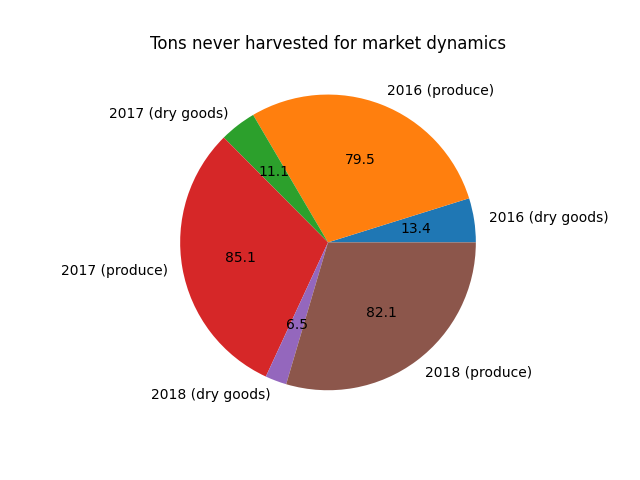
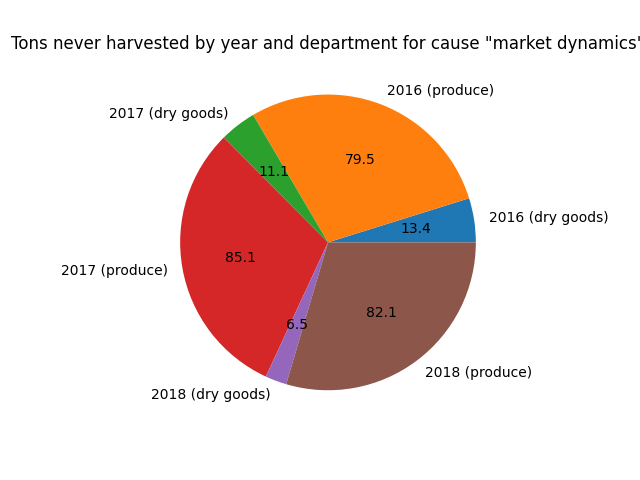
'Self code review' changes

Changed region(s): [[0.0, 0.0625, 1.0, 0.125]]

diff --git a/main.py b/main.py
@@ -9,11 +9,13 @@ from plotting.plot import *
 
 # Constants / shared variables
 
-part_1_csv = 'raw_data/farm_part_1.csv'
-part_3_csv = 'raw_data/farm_update_part_3.csv'
-not_harvested_csv = 'raw_data/farm_not_harvested_causes.csv'
+part_1_csv_filename = 'raw_data/farm_part_1.csv'
+part_3_csv_filename = 'raw_data/farm_update_part_3.csv'
+not_harvested_csv_filename = 'raw_data/farm_not_harvested_causes.csv'
 
-df_harvest = pd.read_csv(not_harvested_csv)
+part_1_prod_filename = 'prod_data/farm_part_1_production.csv'
+
+df_harvest = pd.read_csv(not_harvested_csv_filename)
 
 def main():
 	assignment_part_1()
@@ -21,30 +23,30 @@ def main():
 	assignment_part_3()
 
 def assignment_part_1():
-	df_1 = pd.read_csv(part_1_csv)
+	df_1 = pd.read_csv(part_1_csv_filename)
 
 	df_1 = clean_data(df_1)
 	df_1.to_csv('clean_data/farm_part_1_clean.csv')
 	df_1 = calculate_tons_never_harvested(df_1)
 	df_1 = calculate_tons_never_harvested_by_cause(df_1, df_harvest)
-	df_1.to_csv('prod_data/farm_part_1_production.csv')
+	df_1.to_csv(part_1_prod_filename)
 
 def assignment_part_2():
-	df_2 = pd.read_csv('prod_data/farm_part_1_production.csv') # TODO: Variable?
+	df_2 = pd.read_csv(part_1_prod_filename) # Note: Choosing to not use a shared data frame to emulate an importing of productin data
 
 	plot_not_harvested_by_year(df_2, 'not_harvested_by_year')
 	plot_not_harvested_by_year_and_dept(df_2, 'not_harvested_by_year_and_dept')
 	plot_not_harvested_by_cause(df_2, df_harvest, 'not_harvested_by_cause')
 
 def assignment_part_3():
-	df_3 = pd.read_csv(part_3_csv)
+	df_3 = pd.read_csv(part_3_csv_filename)
 
 	df_3 = clean_data(df_3)
 	df_3.to_csv('clean_data/farm_part_3_clean.csv')
 	df_3 = calculate_tons_never_harvested(df_3)
 	df_3 = calculate_tons_never_harvested_by_cause(df_3, df_harvest)
 	
-	df_2 = pd.read_csv('prod_data/farm_part_1_production.csv', index_col='index') # TODO: don't re-import?
+	df_2 = pd.read_csv(part_1_prod_filename, index_col='index') # Note: Choosing to not use a shared data frame to emulate an importing of productin data
 	df_final = df_2.append(df_3)
 	df_final = df_final.drop_duplicates(keep='first')
 	df_final.to_csv('prod_data/v2_farm_production.csv')

diff --git a/plotting/plot.py b/plotting/plot.py
@@ -1,11 +1,11 @@
 import matplotlib.pyplot as plt
 
 def autopct_format(values):
-    def my_format(pct):
+    def actual_value(pct):
         total = sum(values)
         val = round(pct*total/100.0, 1)
         return str(val)
-    return my_format
+    return actual_value
 
 def plot_not_harvested_by_year(df, plot_name):
 	plt.clf()
@@ -20,11 +20,10 @@ def plot_not_harvested_by_year_and_dept(df, plot_name):
 	plt.clf()
 	data_by_year_and_dept = df.groupby(['year', 'refed_food_department'])
 	plot_data = data_by_year_and_dept.sum().tons_never_harvested
-	labels = data_by_year_and_dept.indices.keys()
-	labels = [f'{str(tuple[0])} ({tuple[1]})' for tuple in labels]
+	labels = [f'{str(year_and_dept[0])} ({year_and_dept[1]})' for year_and_dept in data_by_year_and_dept.indices.keys()]
 
 	plt.pie(plot_data, labels=labels, autopct=autopct_format(plot_data))
-	plt.title('Tons never harvested by year and refed department')
+	plt.title('Tons never harvested by year and department')
 	plt.savefig(f'figures/{plot_name}.png')
 
 def plot_not_harvested_by_cause(df, df_harvest, plot_name):
@@ -33,11 +32,10 @@ def plot_not_harvested_by_cause(df, df_harvest, plot_name):
 	for index, row in df_harvest.iterrows():
 		plt.clf()
 
-		labels = data_by_year_and_dept.indices.keys()
-		labels = [f'{str(tuple[0])} ({tuple[1]})' for tuple in labels]
 		plot_data = data_by_year_and_dept.sum()[f'tons_never_harvested_{row.cause}']
+		labels = [f'{str(year_and_dept[0])} ({year_and_dept[1]})' for year_and_dept in data_by_year_and_dept.indices.keys()]
 
 		plt.pie(plot_data, labels=labels, autopct=autopct_format(plot_data))
 		display_name = row.cause.replace('_', ' ')
-		plt.title(f'Tons never harvested for {display_name}')
+		plt.title(f'Tons never harvested by year and department for cause "{display_name}"')
 		plt.savefig(f'figures/{plot_name}_{row.cause}.png')

diff --git a/README.md b/README.md
@@ -2,21 +2,21 @@
 
 ***A quick note on git***
 
-Upon reading the assignment, I saw the phrase "Your final submission should be a zipped file directory" and assumed the output should specifically not be a git repository. This was purely a reading error on my part and I deeply regret the missed chance to show you the way I work. I'm happy to talk through my process and prefer using git on all projects I work on.
+Upon reading the assignment, I saw the phrase "Your final submission should be a zipped file directory" and assumed the output should specifically not be a git repository. This was purely a reading error on my part and I regret the missed chance to show you the way I work. I'm happy to talk through my process and prefer using git on all projects I work on.
 
-For some insight into how I usually use git, feel free to browse a personal project of mine, [emojiphone](https://github.com/bromeostasis/emojiphone).
+For some insight into how I usually use git, feel free to browse the commit history, project organization, and PRs on a personal project of mine, [emojiphone](https://github.com/bromeostasis/emojiphone).
 
 ## Start here: Project overview and how to run
 
 ### Solution approach
 
-The solution to this problem largely leverages the `pandas` library to handle the sanitzation, manipulation, and calculation of the given food waste data. We can use the powerful `pandas` library to load the csv data into `DataFrame`s. We can then do some sanitization (lowercasing all strings) and sanity checks (ensuring no docuplicates) before saving a copy of the data to the `clean_data/` directory.
+The solution to this problem primarily leverages the `pandas` library to handle the sanitzation, manipulation, and calculation of the given food waste data. We can use the powerful `pandas` library to load the csv data into `DataFrame`s. We can then do some sanitization (lowercasing all strings) and sanity checks (ensuring no docuplicates) before saving a copy of the data to the `clean_data/` directory.
 
-Once the data is cleaned, we use `pandas` `DataFrame`s to do row-level calculations. We're able to do the math required to calculate `tons_never_harvested` just by using the builtin dictionary-style column creation.
+Once the data is cleaned, we use `pandas` `DataFrame`s to do row-level calculations. We're able to do the math required to calculate `tons_never_harvested` just by using the builtin dictionary-style column syntax.
 
-To aggregate the data for plotting, we rely on the `pandas` `groupby` function, which allows us to roll up the data based on `year` and `refed_food_category`. We can then feed this grouped data into `matplotlib` to show a simple visualization of how many tons of food are wasted each year and by each category!
+To aggregate the data for plotting, we rely on the `pandas` `groupby` function, which allows us to roll up the data based on `year` and `refed_food_category`. We can then `sum` this grouped data and feed it into `matplotlib` to show a simple visualization of how many tons of food are wasted each year and by each category!
 
-Finally, we read in the updated data and repeat the previous steps! We remove duplicates from the combined dataset (see future enhancements section for more details) and use the generalized methods from the first two steps to create new datasets and figures with updated 2018 and 2019 data!
+Finally, we read in the updated data and repeat the previous steps! We remove duplicates from the combined dataset (see future enhancements section for more details) and use the generalized methods from the first two steps to create new datasets and figures with updated 2018 and 2019 data.
 
 ### What's included
 
@@ -31,7 +31,7 @@ All of the rest of the directories present are for input or output. They are as 
 
 Any file with the `v2_` prefix includes the updated 2018 & 2019 data from `farm_update_part_3.csv`.
 
-Finally, I did keep the Jupyter notebook files in the directory/solution. They are fairly messy and disorganized as it's mainly notes and experiments, but feel free to take a look if you'd like!
+Finally, I did keep the Jupyter notebook I used in the directory. It's fairly messy and disorganized as it's mainly notes and experiments, but feel free to take a look if you'd like!
 
 ### How to run
 
@@ -42,7 +42,9 @@ Generating the data and figures is as simple as running the base command:
 ```python
 python3 main.py
 ```
-Also included is a convenience script, `reset.py`, to clear out all generated data and figures. If you'd like to fully see the script in action, you may do the following:
+As mentioned in the assignment, I included the final data and figures in the directory.
+
+If you'd like to clear out all of the generated output, I've included is a convenience script: `reset.py`. This will clear out everything except the raw data and can be run like this:
 ```python
 python3 reset.py
 # Verify here that all output directories are empty
@@ -51,39 +53,43 @@ python3 main.py
 
 ## Looking forward: Part 4 and Future Enhancements
 ### Part 4: Scaling the analytics pipeline
-Currently, the solution exists as a local directory on a computer. In order to make this a scalable solution that works for a broader team and bigger datasets, several things would need to change. I'll outline them here (in priority order?):
+Currently, the solution exists as a local directory on a computer. In order to make this a scalable solution that works for a broader team, bigger datasets, and actual users, several things would need to change. I'll outline them here in priority order:
 
 **Storage**
 
-While `python` and `pandas` are very powerful, we don't want to rely on them, especially as our datasets grow in size. For one thing, we waste a lot of time and resources loading the data locally up every time to do analysis. Additionally, querying data in sql (I prefer [PostgreSQL](https://www.postgresql.org/)) is going to be much more performant than in python. For these reason, we should store all of the "production data" in a database instead of outputting into more `csv` files. That way, the data is always available to do more calculations on or run visualizations.
+While `python` and `pandas` are very powerful, we don't want to rely on them, especially as our datasets grow in size. For one thing, we waste a lot of time and resources loading the data locally up every time to do analysis. Additionally, querying data in sql (I prefer [PostgreSQL](https://www.postgresql.org/)) is going to be much more performant than in python. For these reasons, we should start out by storing all of the "production data" in a database instead of outputting into more `csv` files. From there, we can query the data much faster in order to do more calculations on or run visualizations.
 
-We would also want to store the `tons_never_harvested_by_cause` data in a dedicated table so we can easily update these values and have changes propogate throughout our system.
+We would also want to store the `tons_never_harvested_by_cause` data in a dedicated table so we can easily update these values and have changes propogate throughout our system without having to update our code.
 
 **Hosting**
 
-First and foremost, these calculations would need to more broadly be accessible to other engineers, more robust analytics solutions, and end-users. We would likely want to create a frontend interface where anyone (or anyone with appropriate permissions) could upload their data. To start with, this could be a simple file upload interface, though it could certainly expanded to show a lot of validation or be integrated with the current insights to help ensure that whoever might be submitting the data knows what they're doing and that they're submitting it to the right place.
+We also need these analyses to be more broadly accessible to other engineers, more robust analytics solutions, and end-users. In order to do that, we need to host several parts of the solution in a publicly accessible location.
+
+We would likely want to create a frontend interface where anyone (or anyone with appropriate permissions) could upload their data. To start with, this could be a simple file upload interface, though it could certainly expanded to show a lot of validation or be integrated with the current insights to help ensure that whoever might be submitting the data knows what they're doing and that they're submitting it to the right place.
 
 We would also want to host the visualizations on a frontend server. Visualizations aren't a specialty of mine, so I'm not sure which technology would be best to use here, but we would certainly want the outside world to be able to view all of our work in a dynamic fashion, not just send them a folder of `.png`s!
 
-Finally, we would need to host the backend calculations somewhere to ensure availability and scalability. A [Flask](https://flask.palletsprojects.com/en/2.2.x/) server would do well to get things up and running, though as datasets become larger and calculations become more intensive, we may want to consider expanding into a task-based system such as [Celery](https://docs.celeryq.dev/en/stable/getting-started/introduction.html) for some of our analysis and calculation, to ensure the frontend visualizations aren't impacted.
+Finally, we would need to host the backend calculations somewhere to ensure availability and scalability. A [Flask](https://flask.palletsprojects.com/en/2.2.x/) server would do well to get things up and running, though as datasets become larger (and more frequently updated) and calculations become more intensive, we may want to consider expanding into a task-based system such as [Celery](https://docs.celeryq.dev/en/stable/getting-started/introduction.html) for some of our analysis and calculation, to ensure the frontend visualizations aren't impacted by uploads and analysis.
+
+**Validation**
+
+The current solution does not do much in terms of validating the cleanliness and sanity of the data coming in. Ensuring fields are the correct types, values are within acceptable parameters, and that there are no outliers will ensure our calculations are functional and accurate.
 
 **Data Access**
 
 Given that "engineers will need to be able to acess this data", it would likely be worth it to implement some sort of data visualization tool. Depending on the SQL knowledge of those accessing the data, we could consider using something like [Tableau](https://www.tableau.com/), [Snowflake](https://www.snowflake.com/en/), or [PowerBI](https://powerbi.microsoft.com/en-us/).
 
-**Validation**
-
-The current solution does not do much in terms of validating the cleanliness and sanity of the data coming in. Ensuring fields are the correct types, values are within parameters, and that there are no outliers will ensure our calculations are functional and accurate.
 
 ### Future Enhancements
 
 For the sake of time, I made several tradeoffs that I would fix down the road. I've listed them here in rough order of what priority I'd fix/address them in:
 
-* **More efficient calculations.** As previously mentioned, loading all the data into memory and doing calculations via `pandas` is not the most time-efficient. With more time, I'd likely jump straight to storing data in Postgres and doing a lot of the heavy lifting there.
-* **More sophisticated duplication detection.** Upon reviewing the dataset, I noticed that when rows are duplicated, they tend to have all rows exactly the same, including what I've renamed as "index". A more sophisticated solution would likely only check a subset of the columns to distinguish between strict copies and potential updates (a new dataset with the same year/crop, but newer numbers for wasted food)
+* **More efficient calculations.** As previously mentioned, loading all the data into memory and doing calculations via `pandas` is not the most time-efficient. I also re-load the same data from a csv multiple times. With more time, I'd likely jump straight to storing data in Postgres and doing a lot of the heavy lifting there.
+* **More sophisticated duplication detection.** Upon reviewing the dataset, I noticed that when rows are duplicated, all rows are exactly the same, including what I've renamed as "index". A more sophisticated solution would likely only check a subset of the columns to distinguish between strict copies and potential updates (a new dataset with the same year/crop, but newer numbers for wasted food).
 * **Blank data detection.** The dataset also did not appear to have any blank data, so I did not implement anything to handle this case, but this is surely we'd run into in ramping up the pipeline.
 * **Adding virutalenv.** To ensure more consistent execution across different computers, I would use virtualenv.
 * **Friendlier script execution.** For convenience, it'd be nice to have the script take more inputs or be a bit more interactive. We could control things like filenames, output directories, resetting data, and potentially choosing which portions of the assignment to run.
+* I also left a few smaller TODOs in the codebase for smaller cleanup tasks
 
 ## Miscellaneous: assumptions and corrections
 
